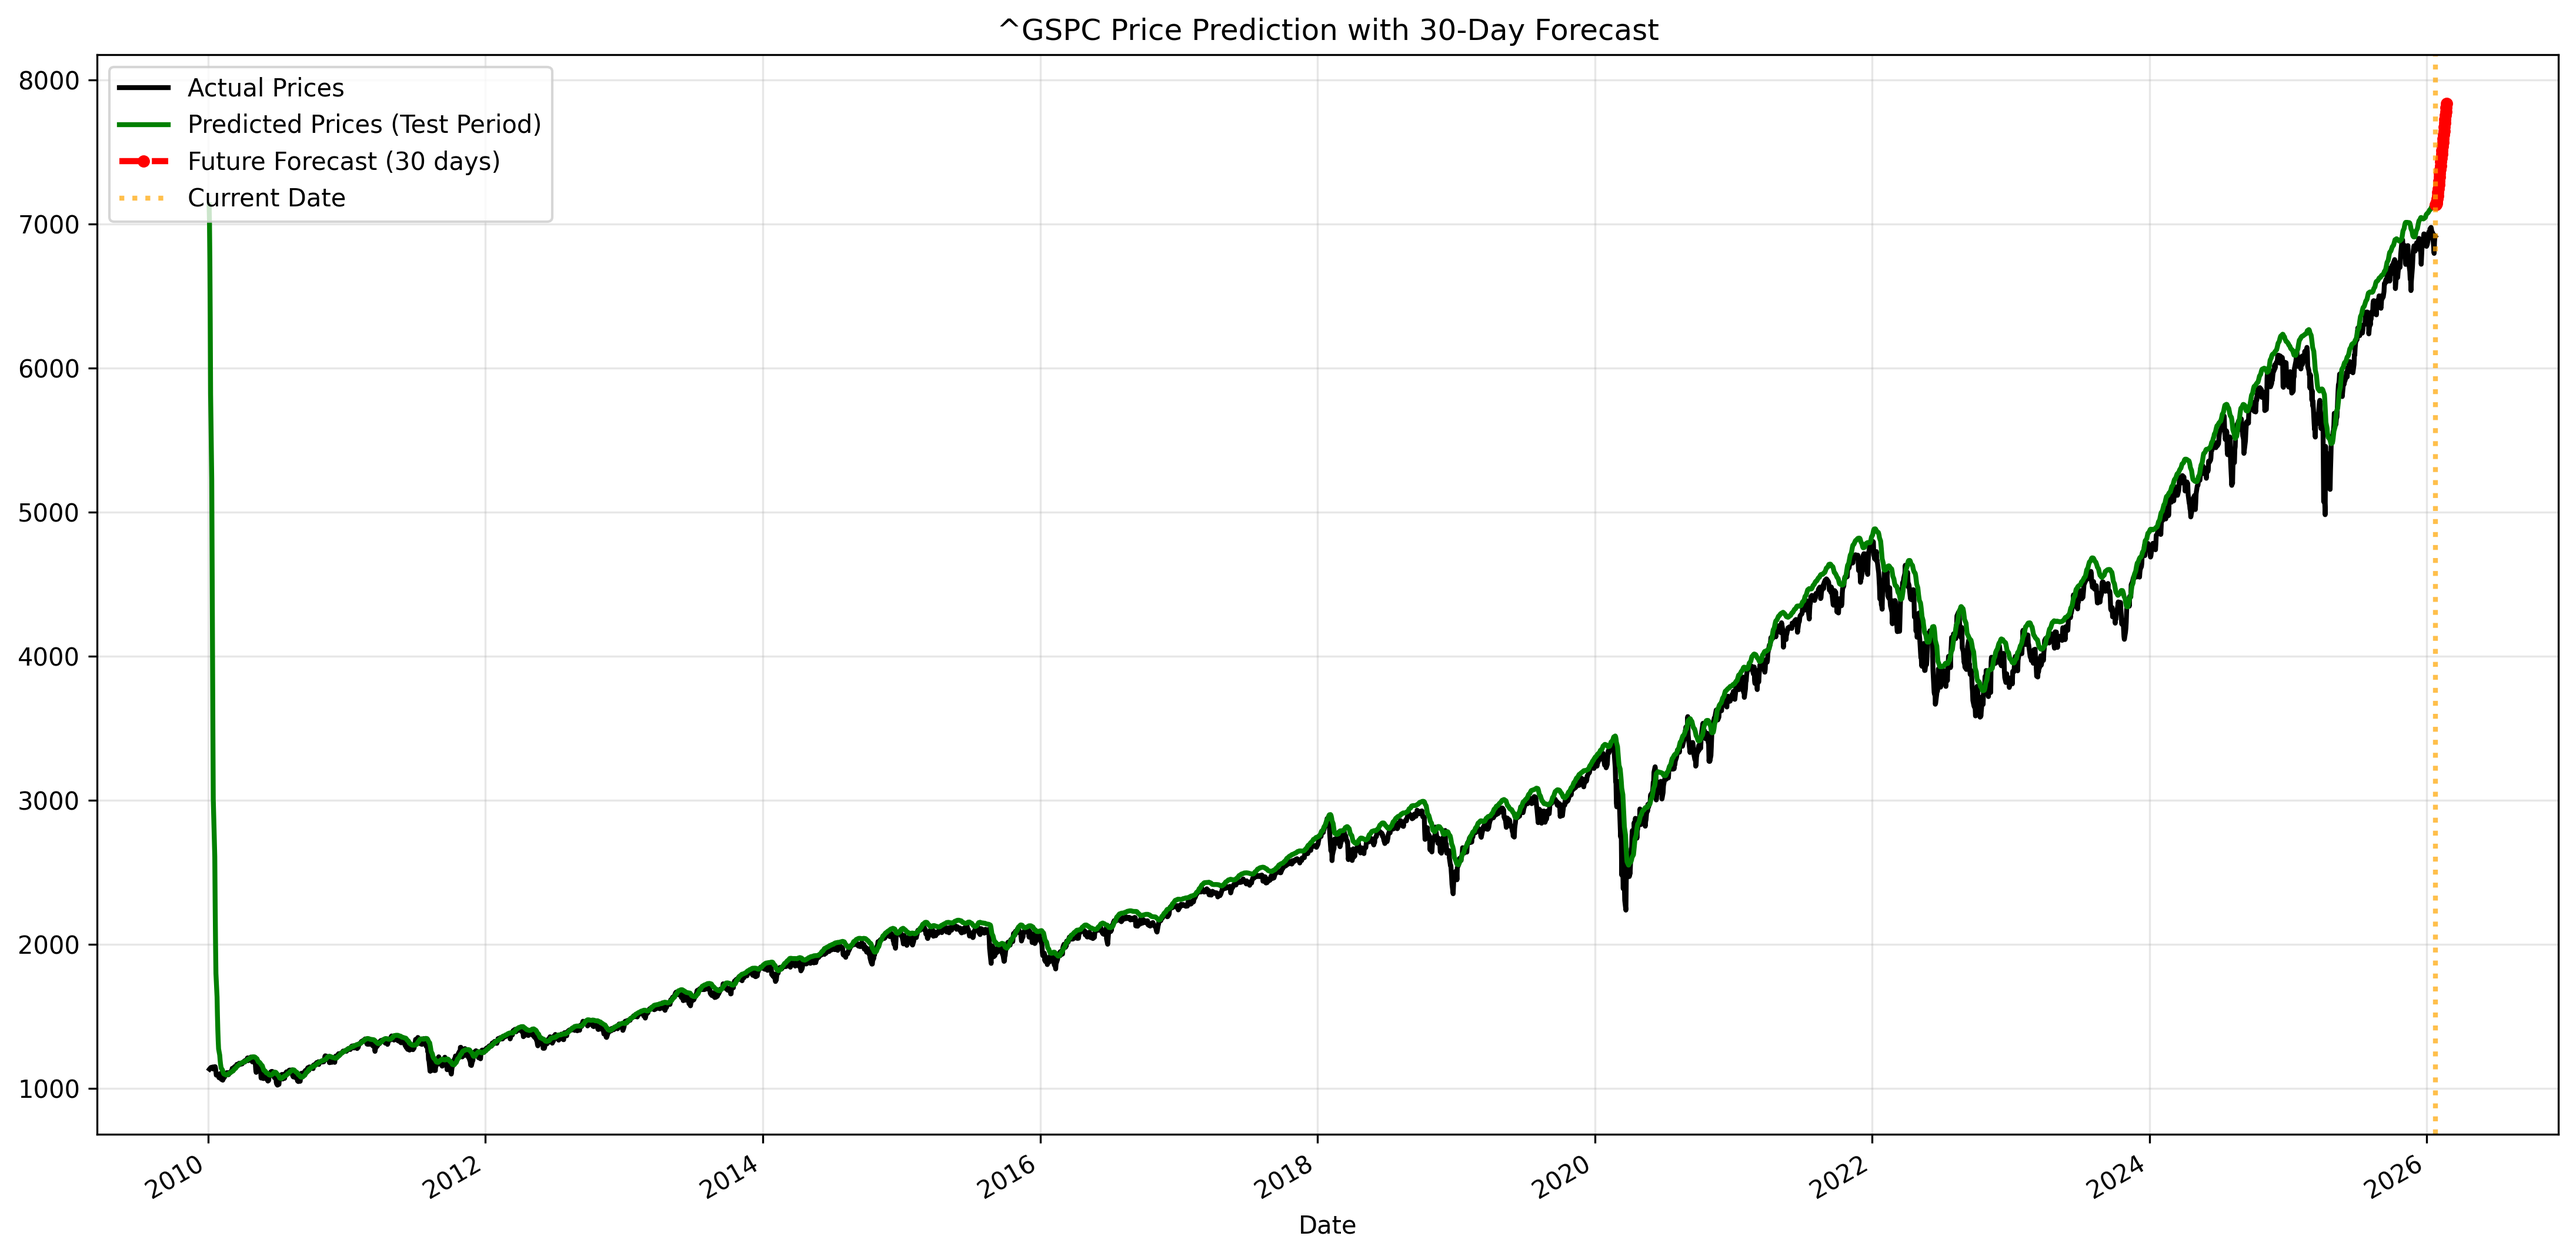
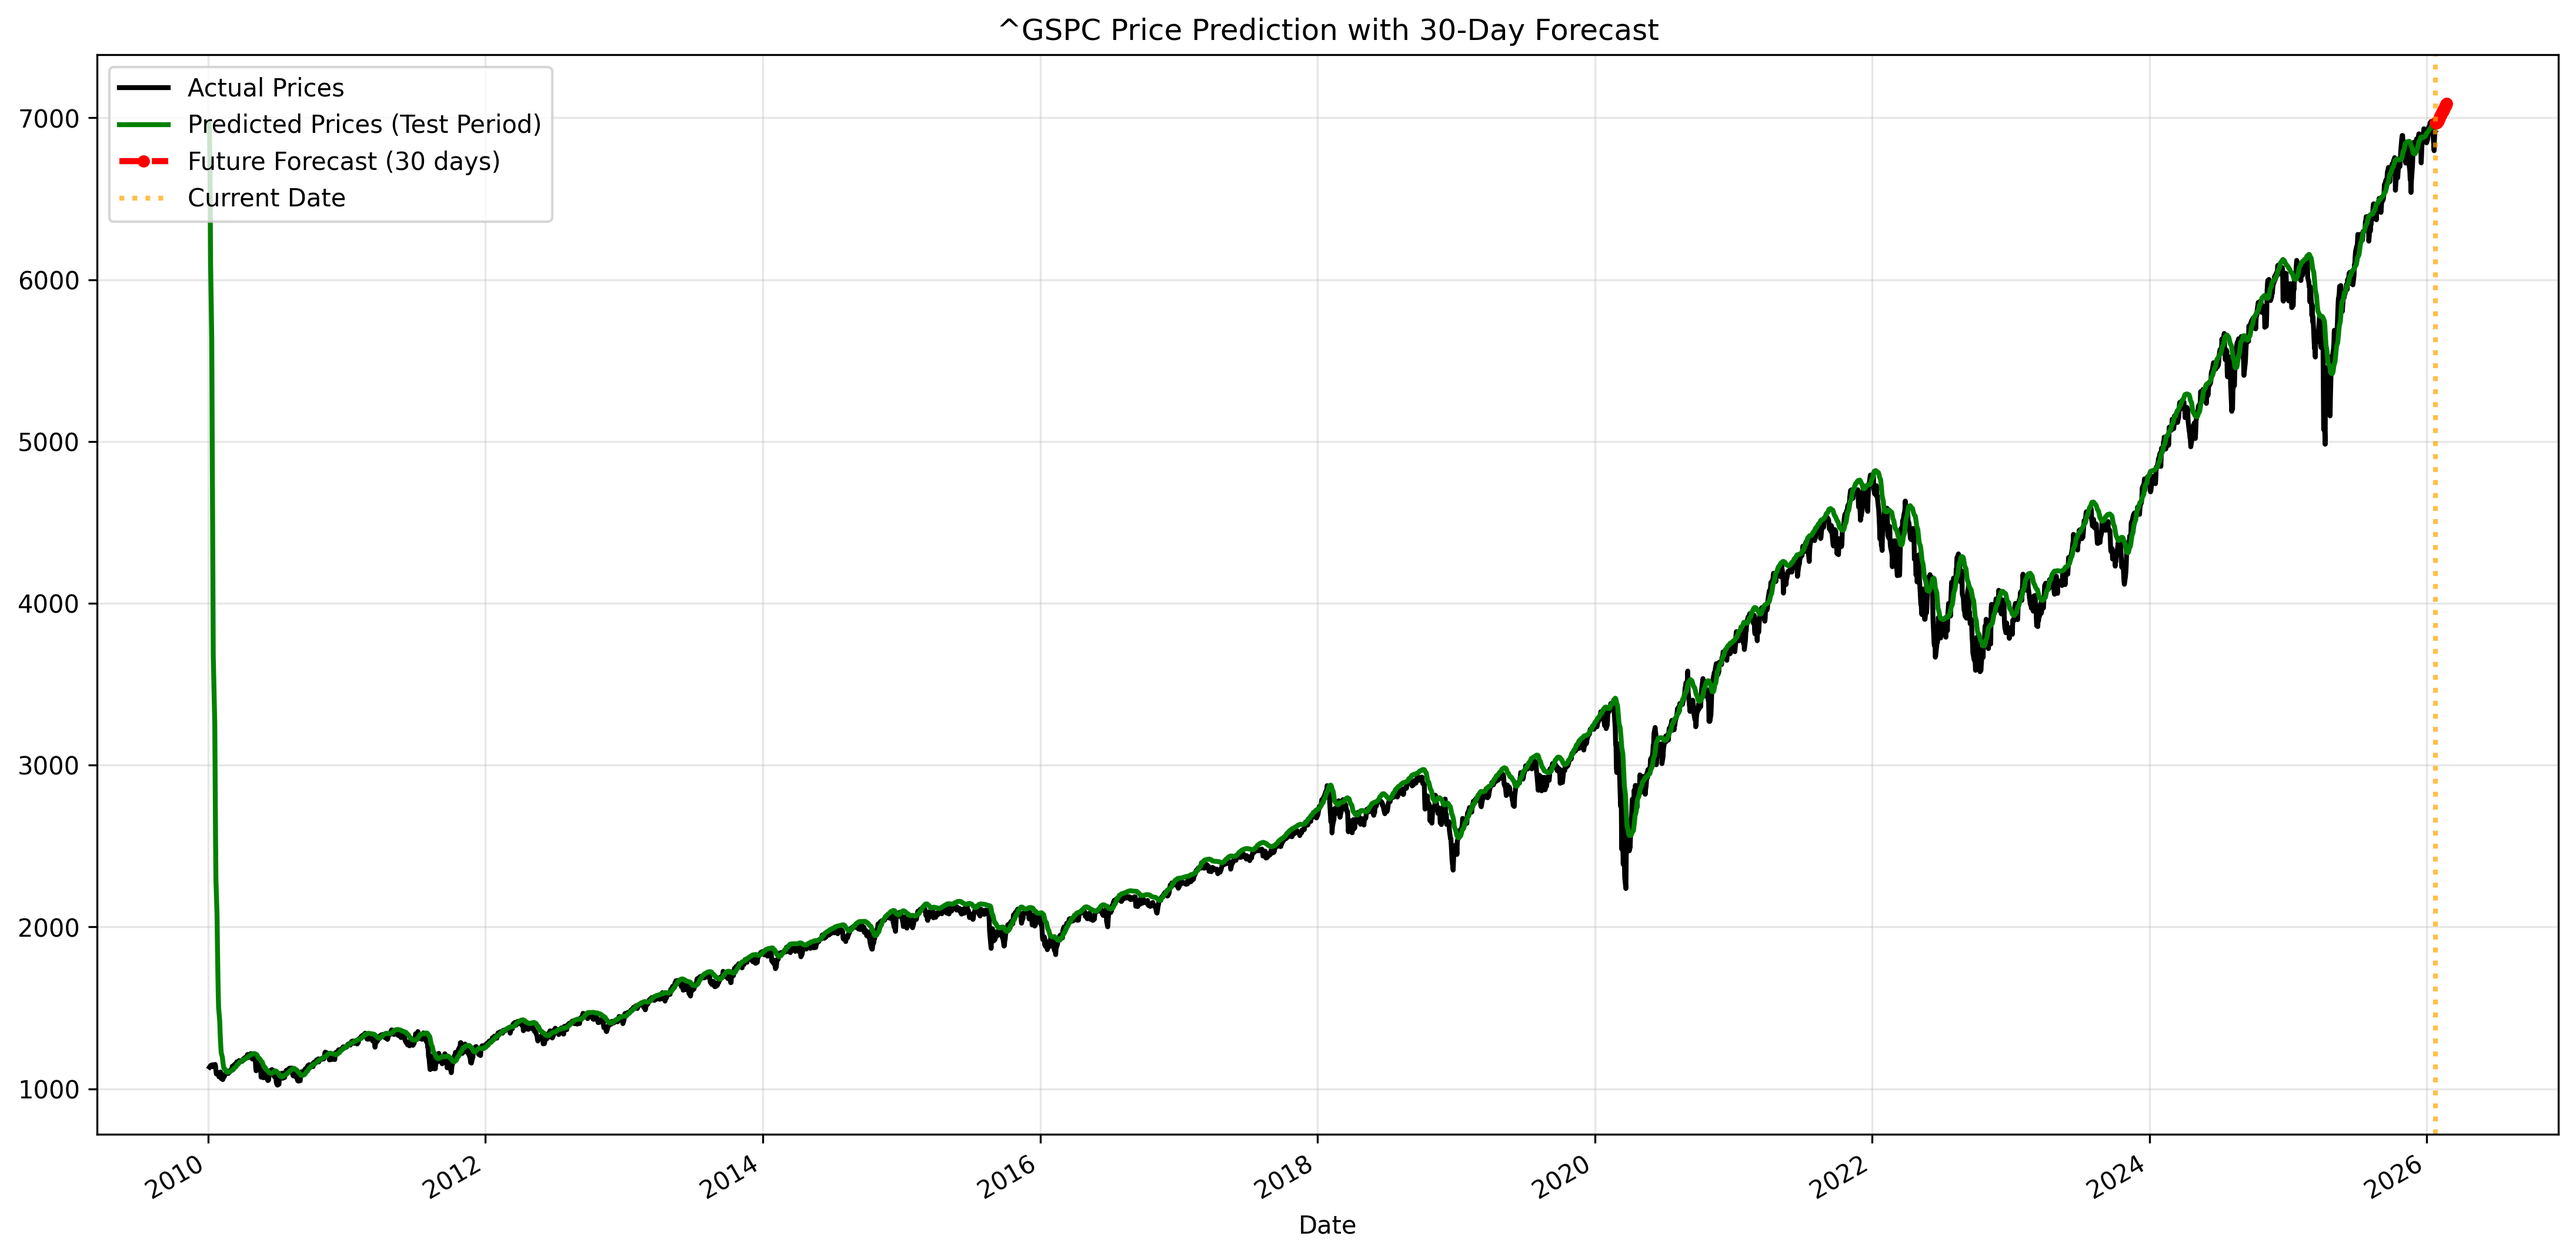
imporoved monte carlo dropout

diff --git a/REWRITE/onedrive_pytorch.py b/REWRITE/onedrive_pytorch.py
@@ -82,11 +82,11 @@ def choose_chart_interactive():
 chart = choose_chart_interactive()
 prediction_days = 60
 future_day = 30
-epochs = 20
-batch_size = 1000
+epochs = 5
+batch_size = 10
 initial_dropout = 0.5
 final_dropout = 0.1
-train_time = 1
+train_time = 2
 
 device_type = input("Enter device type (cpu/cuda): ").strip().lower()
 
@@ -161,6 +161,7 @@ def main():
     # figure for plotting
     fig = plt.figure(figsize=(18, 9))
     graph = fig.add_subplot(1, 1, 1)
+    out_dir = os.getcwd()
 
     # determine earliest date available
     ticker = yf.Ticker(chart)
@@ -290,20 +291,74 @@ def main():
     print("Percentage difference:", f"{color_code}{percentage_difference:.2f}%{reset_code}")
 
     # Forecast next N days via rolling prediction
+    # Monte Carlo Dropout forecasting
     real_data = ai_inputs[-prediction_days:, 0].copy()
-    future_predictions = []
-    for day in range(future_day):
-        input_seq = real_data[-prediction_days:].reshape(1, prediction_days, 1)
-        with torch.no_grad():
-            t_in = torch.from_numpy(input_seq).float().to(device)
-            next_pred = model(t_in).cpu().numpy()[0, 0]
-        future_predictions.append(next_pred)
-        real_data = np.append(real_data, next_pred)
-        if (day + 1) % 10 == 0:
-            print(f"Predicted day {day+1}/{future_day}")
 
-    future_predictions = np.array(future_predictions).reshape(-1, 1)
-    future_predictions_prices = scaler.inverse_transform(future_predictions)
+    mc_runs = 20  # use fewer runs for a quick diagnostic; increase later for final results
+
+    def enable_dropout_for_inference(m):
+        for module in m.modules():
+            if isinstance(module, nn.Dropout):
+                module.train()
+
+    # New MC strategy: sample per-day with dropout and use the MEAN scaled prediction
+    # as the input for the next step to avoid stochastic error blow-up.
+    mc_preds_orig = np.zeros((mc_runs, future_day), dtype=np.float32)
+
+    model.eval()
+    current_scaled = real_data.copy()
+    for day in range(future_day):
+        samples_scaled = np.zeros(mc_runs, dtype=np.float32)
+        enable_dropout_for_inference(model)
+        with torch.no_grad():
+            for run in range(mc_runs):
+                input_seq = current_scaled[-prediction_days:].reshape(1, prediction_days, 1)
+                t_in = torch.from_numpy(input_seq).float().to(device)
+                pred_scaled = model(t_in).cpu().numpy()[0, 0]
+                samples_scaled[run] = pred_scaled
+
+        # convert samples to original price scale and store
+        samples_orig = scaler.inverse_transform(samples_scaled.reshape(-1, 1)).flatten()
+        mc_preds_orig[:, day] = samples_orig
+
+        # append the MEAN SCALED prediction to current_scaled for next day's conditioning
+        mean_scaled = float(samples_scaled.mean())
+        current_scaled = np.append(current_scaled, mean_scaled)
+
+        if (day + 1) % 5 == 0 or day == 0:
+            print(f"Completed MC sampling for day {day+1}/{future_day} | mean (orig) ${samples_orig.mean():.2f}")
+
+    # Compute mean, std, and 95% CIs on original scale
+    future_mean = mc_preds_orig.mean(axis=0)
+    future_std = mc_preds_orig.std(axis=0)
+    z = 1.96
+    future_lower = future_mean - z * future_std
+    future_upper = future_mean + z * future_std
+
+    future_predictions_prices = future_mean.reshape(-1, 1)
+
+    # --- Diagnostics: help debug unexpected collapse in forecasts ---
+    try:
+        last_scaled_input = ai_inputs[-1, 0]
+    except Exception:
+        last_scaled_input = None
+
+    first_day_orig = mc_preds_orig[:, 0]
+    print('\nMC diagnostics:')
+    if last_scaled_input is not None:
+        print(f' - Last scaled input value: {last_scaled_input:.6f}')
+    print(f' - First-day prediction (orig) mean: ${first_day_orig.mean():.2f}, std: ${first_day_orig.std():.2f}')
+    print(' - Sample first-day predictions (orig):', np.round(first_day_orig[:10], 2))
+
+    # Save raw MC runs (original scale) for inspection
+    try:
+        mc_df = pd.DataFrame(mc_preds_orig, columns=[f'Day_{i+1}' for i in range(future_day)])
+        mc_df.insert(0, 'run', np.arange(1, mc_runs + 1))
+        mc_csv_path = os.path.join(out_dir, 'mc_raw_predictions.csv')
+        mc_df.to_csv(mc_csv_path, index=False)
+        print(f' - Saved raw MC predictions to: {mc_csv_path}')
+    except Exception as e:
+        print(' - Failed to save raw MC CSV:', e)
 
     last_date = data.index[-1]
     future_dates = pd.date_range(start=last_date + pd.Timedelta(days=1), periods=future_day)
@@ -329,7 +384,9 @@ def main():
     # Plotting
     graph.plot(prediction_dates, actual_prices, color='black', label='Actual Prices', linewidth=2)
     graph.plot(prediction_dates_offset, prediction_prices, color='green', label='Predicted Prices (Test Period)', linewidth=2)
-    graph.plot(future_dates, future_predictions_prices, color='red', label=f'Future Forecast ({future_day} days)', linewidth=2.5, linestyle='--', marker='o', markersize=4)
+    graph.plot(future_dates, future_predictions_prices, color='red', label=f'Future Forecast ({future_day} days) Mean', linewidth=2.5, linestyle='--', marker='o', markersize=4)
+    # confidence band
+    graph.fill_between(future_dates, future_lower, future_upper, color='red', alpha=0.2, label='95% CI')
     """
     for x1, y1, x2, y2 in zip(prediction_dates, actual_prices, prediction_dates_offset, prediction_prices):
         graph.plot([x1, x2], [y1, y2], color='gray', linestyle='--', linewidth=0.7, alpha=0.6)
@@ -426,7 +483,12 @@ def main():
     out_dir = os.getcwd()
     present_day = dt.datetime.now().date()
     fig.savefig(os.path.join(out_dir, f"{present_day}.png"), dpi=300, bbox_inches='tight')
-    forecast_df = pd.DataFrame({'Date': future_dates, 'Predicted_Price': future_predictions_prices.flatten()})
+    forecast_df = pd.DataFrame({
+        'Date': future_dates,
+        'Predicted_Price_Mean': future_mean,
+        'Predicted_Price_Lower95': future_lower,
+        'Predicted_Price_Upper95': future_upper
+    })
     forecast_df.to_csv(os.path.join(out_dir, 'future_predictions_pytorch.csv'), index=False)
     print('\nSaved:', [f for f in os.listdir(out_dir) if f.endswith(('.png', '.csv'))])
             
